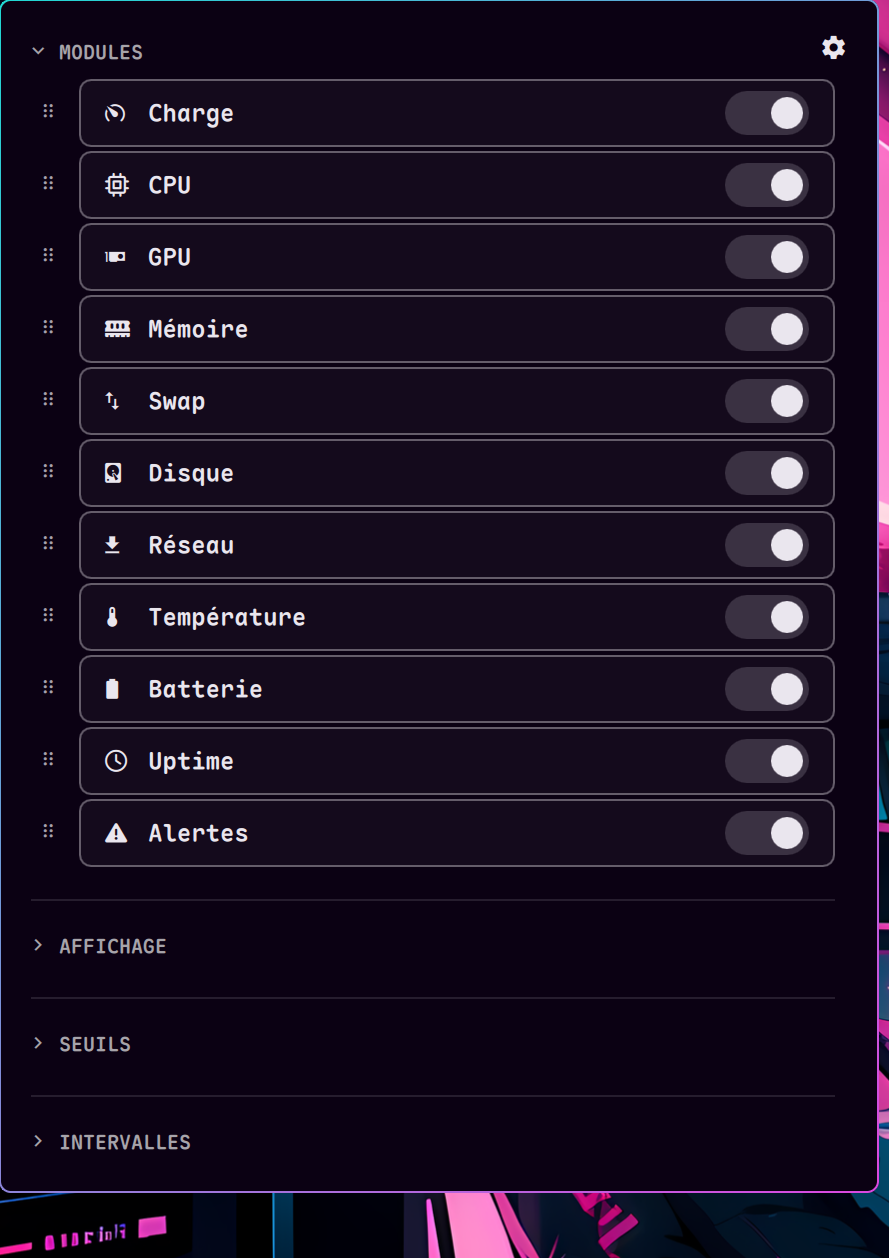
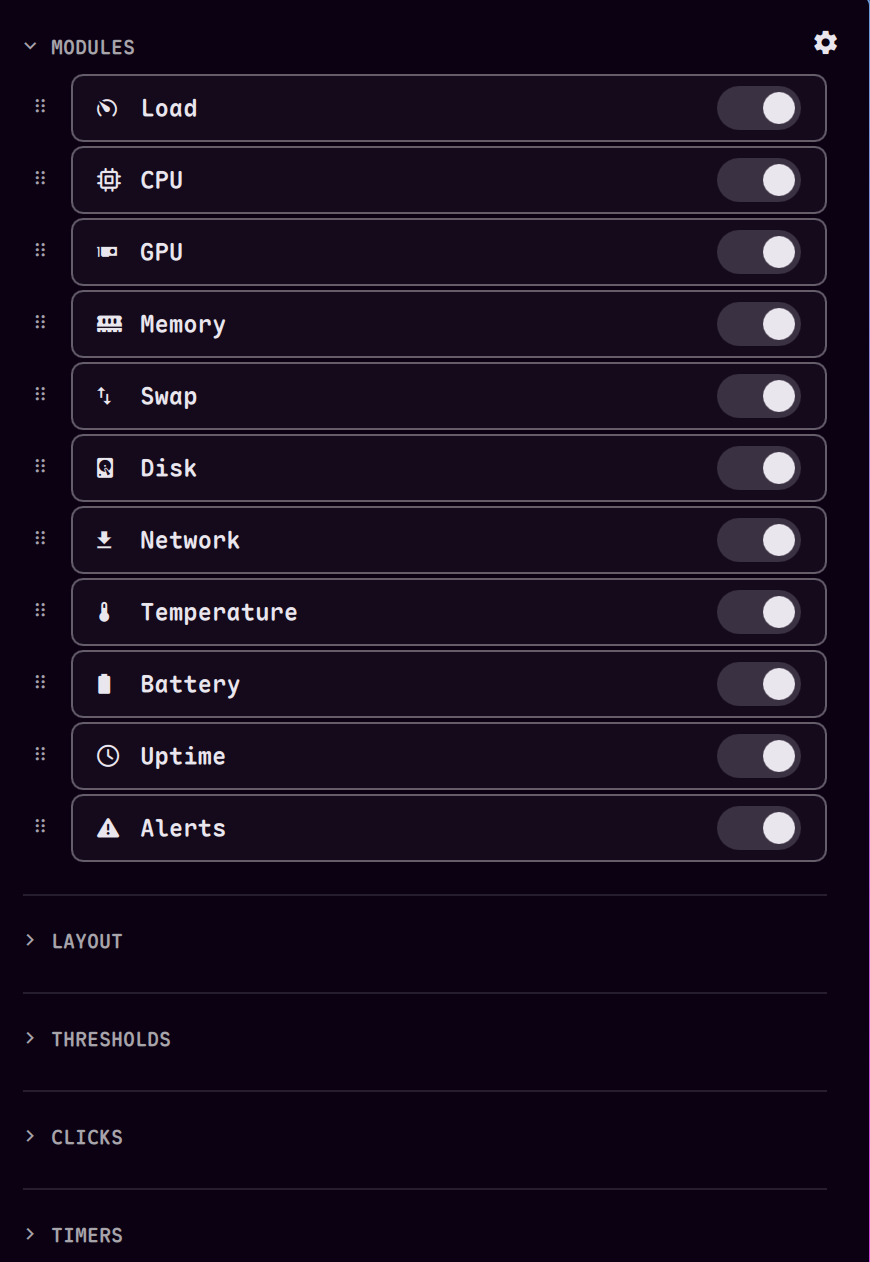
Release 1.3
Version numbers move to 1.3 (manifest and both READMEs), the settings
screenshot is regenerated in English, and the READMEs state that the widget
is feature complete. Version 1.3.

diff --git a/README-fr.md b/README-fr.md
@@ -1,12 +1,17 @@
 # YASSM — Yet Another Simple System Monitor
 
-Version 1.29.117
+Version 1.3
 
 [English](README.md) | **Français**
 
 Un widget compact pour la barre d'Omarchy : CPU, RAM, swap, charge, GPU,
 disque, réseau, température, batterie, uptime et alertes, chacun avec une
 infobulle détaillée.
+
+**Fonctionnalités complètes.** Le widget fait ce qu'il devait faire : aucune
+nouvelle fonctionnalité n'est prévue, seulement des corrections de bugs et la
+compatibilité avec Omarchy.
+
 
 Dépôt : <https://github.com/jotenakis2/yassm>
 

diff --git a/README.md b/README.md
@@ -1,11 +1,15 @@
 # YASSM — Yet Another Simple System Monitor
 
-Version 1.29.117
+Version 1.3
 
 **English** | [Français](README-fr.md)
 
 A compact Omarchy bar widget: CPU, RAM, swap, load, GPU, disk, network,
 temperature, battery, uptime and alerts, each with a detailed tooltip.
+
+**Feature complete.** The widget covers what it set out to do: new features
+are not planned, only bug fixes and Omarchy compatibility updates.
+
 
 Repository: <https://github.com/jotenakis2/yassm>
 
